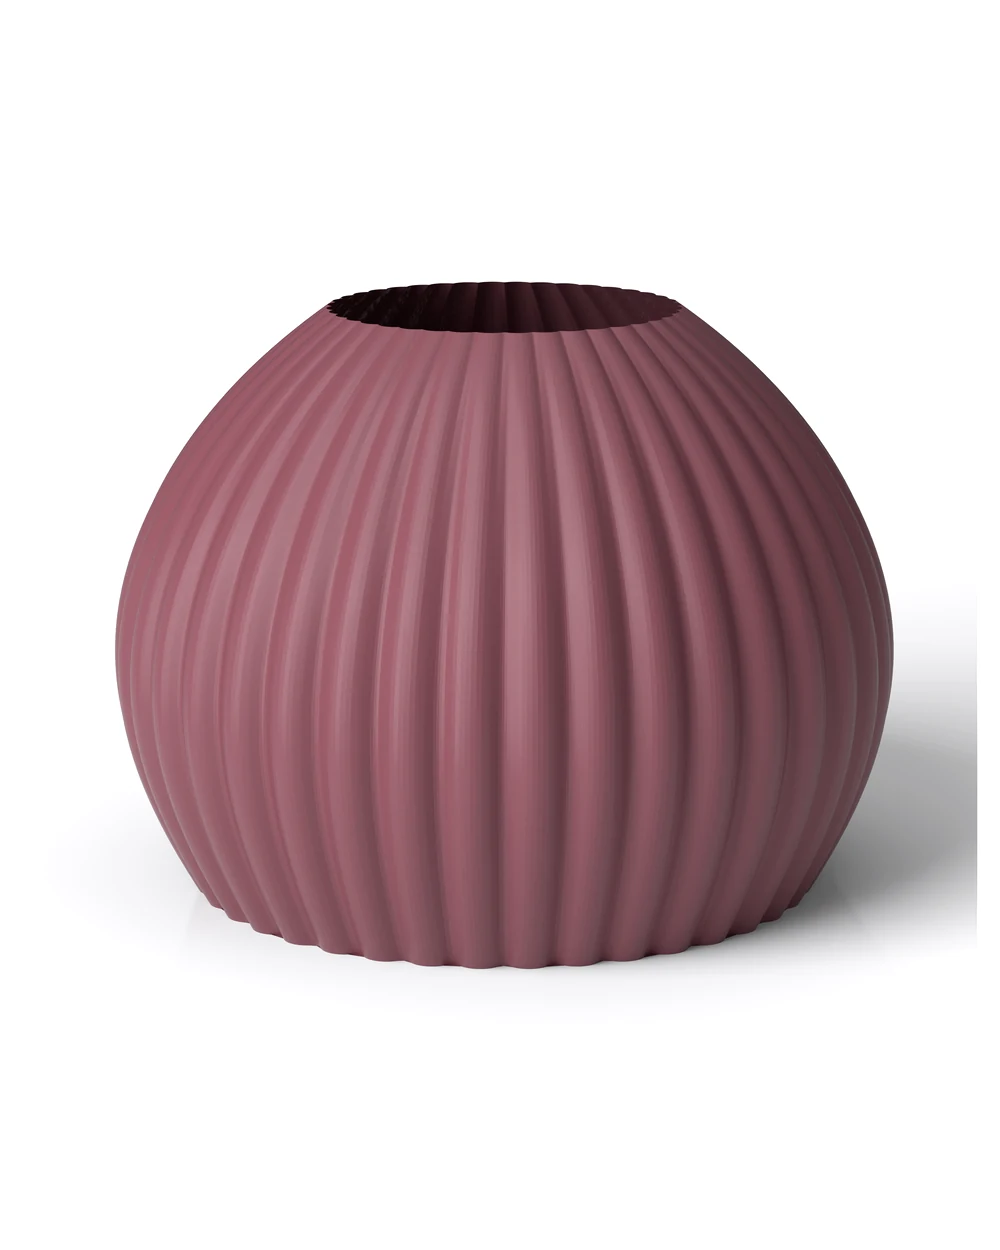
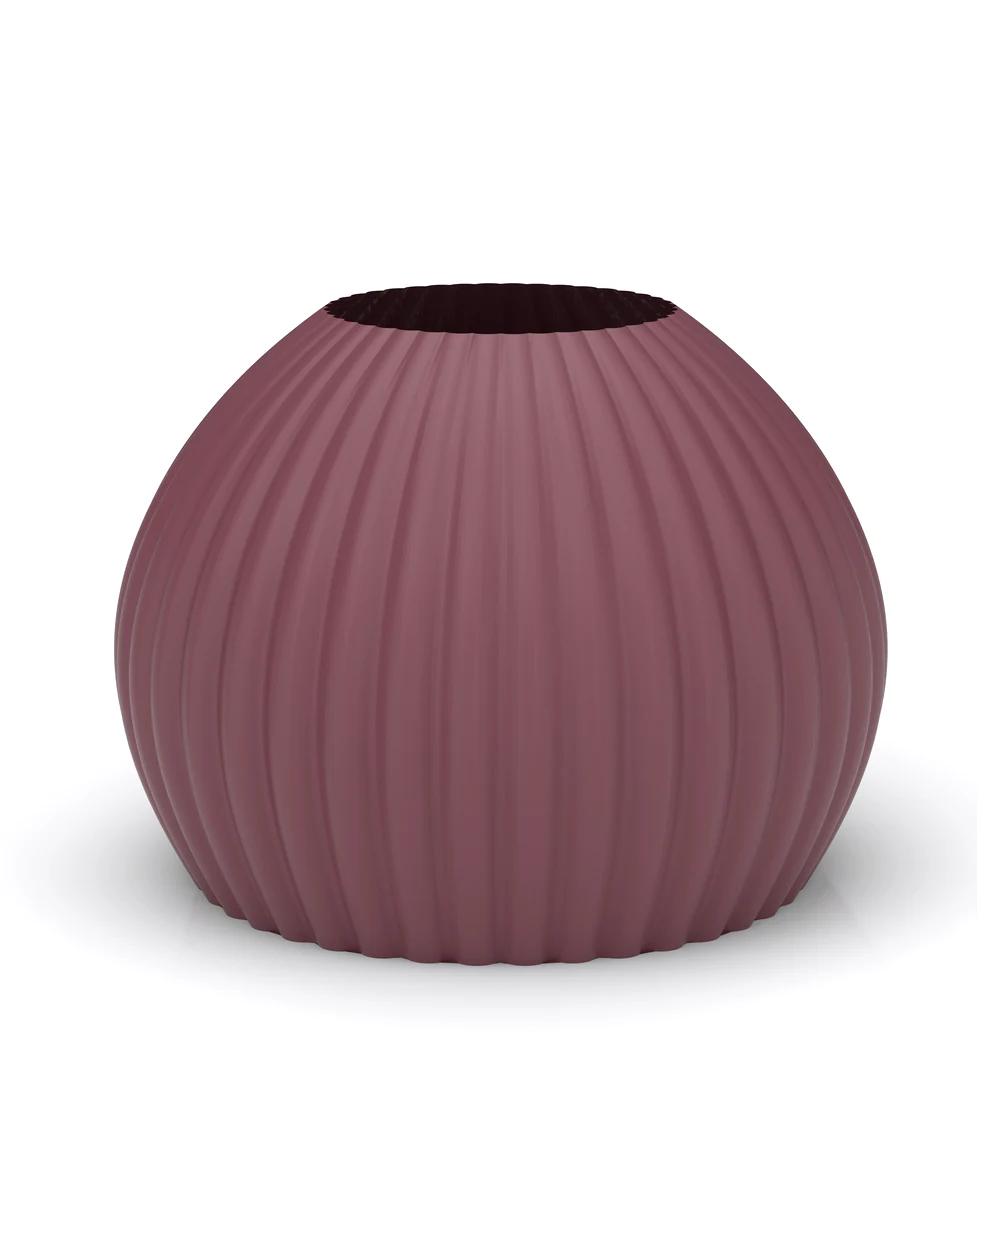
Bombato: render colore rifatti con luce piu uniforme (niente abbagliamento a sinistra)
Claude-Session: https://claude.ai/code/session_01MGUzPwwzTWodVZRn9utq3A

Changed region(s): [[0.093, 0.2184, 0.992, 0.8112]]

diff --git a/prodotto-bombato.html b/prodotto-bombato.html
@@ -704,19 +704,19 @@
     /* Il render del vaso in ogni colore (sito, luce uguale per tutti). Compare nel
        riquadro solo quando si tocca il pallino: NON e' fra le miniature. */
     var COLORI = {
-      "#a3444d":"images/Bombato/colori/bombato-red-wine.webp?v=c1",
-      "#91535d":"images/Bombato/colori/bombato-bordeaux.webp?v=c1",
-      "#bcbfb0":"images/Bombato/colori/bombato-sage.webp?v=c1",
-      "#646666":"images/Bombato/colori/bombato-antracite.webp?v=c1",
-      "#d8d0cd":"images/Bombato/colori/bombato-off-white.webp?v=c1",
-      "#e7cac0":"images/Bombato/colori/bombato-rose.webp?v=c1",
-      "#346371":"images/Bombato/colori/bombato-emerald-green.webp?v=c1",
-      "#0095a1":"images/Bombato/colori/bombato-blu-lagoon.webp?v=c1",
-      "#6b1492":"images/Bombato/colori/bombato-viola.webp?v=c1",
-      "#dd1d76":"images/Bombato/colori/bombato-magenta.webp?v=c1",
-      "#fed003":"images/Bombato/colori/bombato-giallo.webp?v=c1",
-      "#00924f":"images/Bombato/colori/bombato-verde.webp?v=c1",
-      "#e0bf42":"images/Bombato/colori/bombato-golden.webp?v=c1"
+      "#a3444d":"images/Bombato/colori/bombato-red-wine.webp?v=c2",
+      "#91535d":"images/Bombato/colori/bombato-bordeaux.webp?v=c2",
+      "#bcbfb0":"images/Bombato/colori/bombato-sage.webp?v=c2",
+      "#646666":"images/Bombato/colori/bombato-antracite.webp?v=c2",
+      "#d8d0cd":"images/Bombato/colori/bombato-off-white.webp?v=c2",
+      "#e7cac0":"images/Bombato/colori/bombato-rose.webp?v=c2",
+      "#346371":"images/Bombato/colori/bombato-emerald-green.webp?v=c2",
+      "#0095a1":"images/Bombato/colori/bombato-blu-lagoon.webp?v=c2",
+      "#6b1492":"images/Bombato/colori/bombato-viola.webp?v=c2",
+      "#dd1d76":"images/Bombato/colori/bombato-magenta.webp?v=c2",
+      "#fed003":"images/Bombato/colori/bombato-giallo.webp?v=c2",
+      "#00924f":"images/Bombato/colori/bombato-verde.webp?v=c2",
+      "#e0bf42":"images/Bombato/colori/bombato-golden.webp?v=c2"
     };
 
     var stato = { vista:'foto', da:'foto', foto:0, color:'#a3444d', nomeColore:'Red Wine', modelloAvviato:false };
